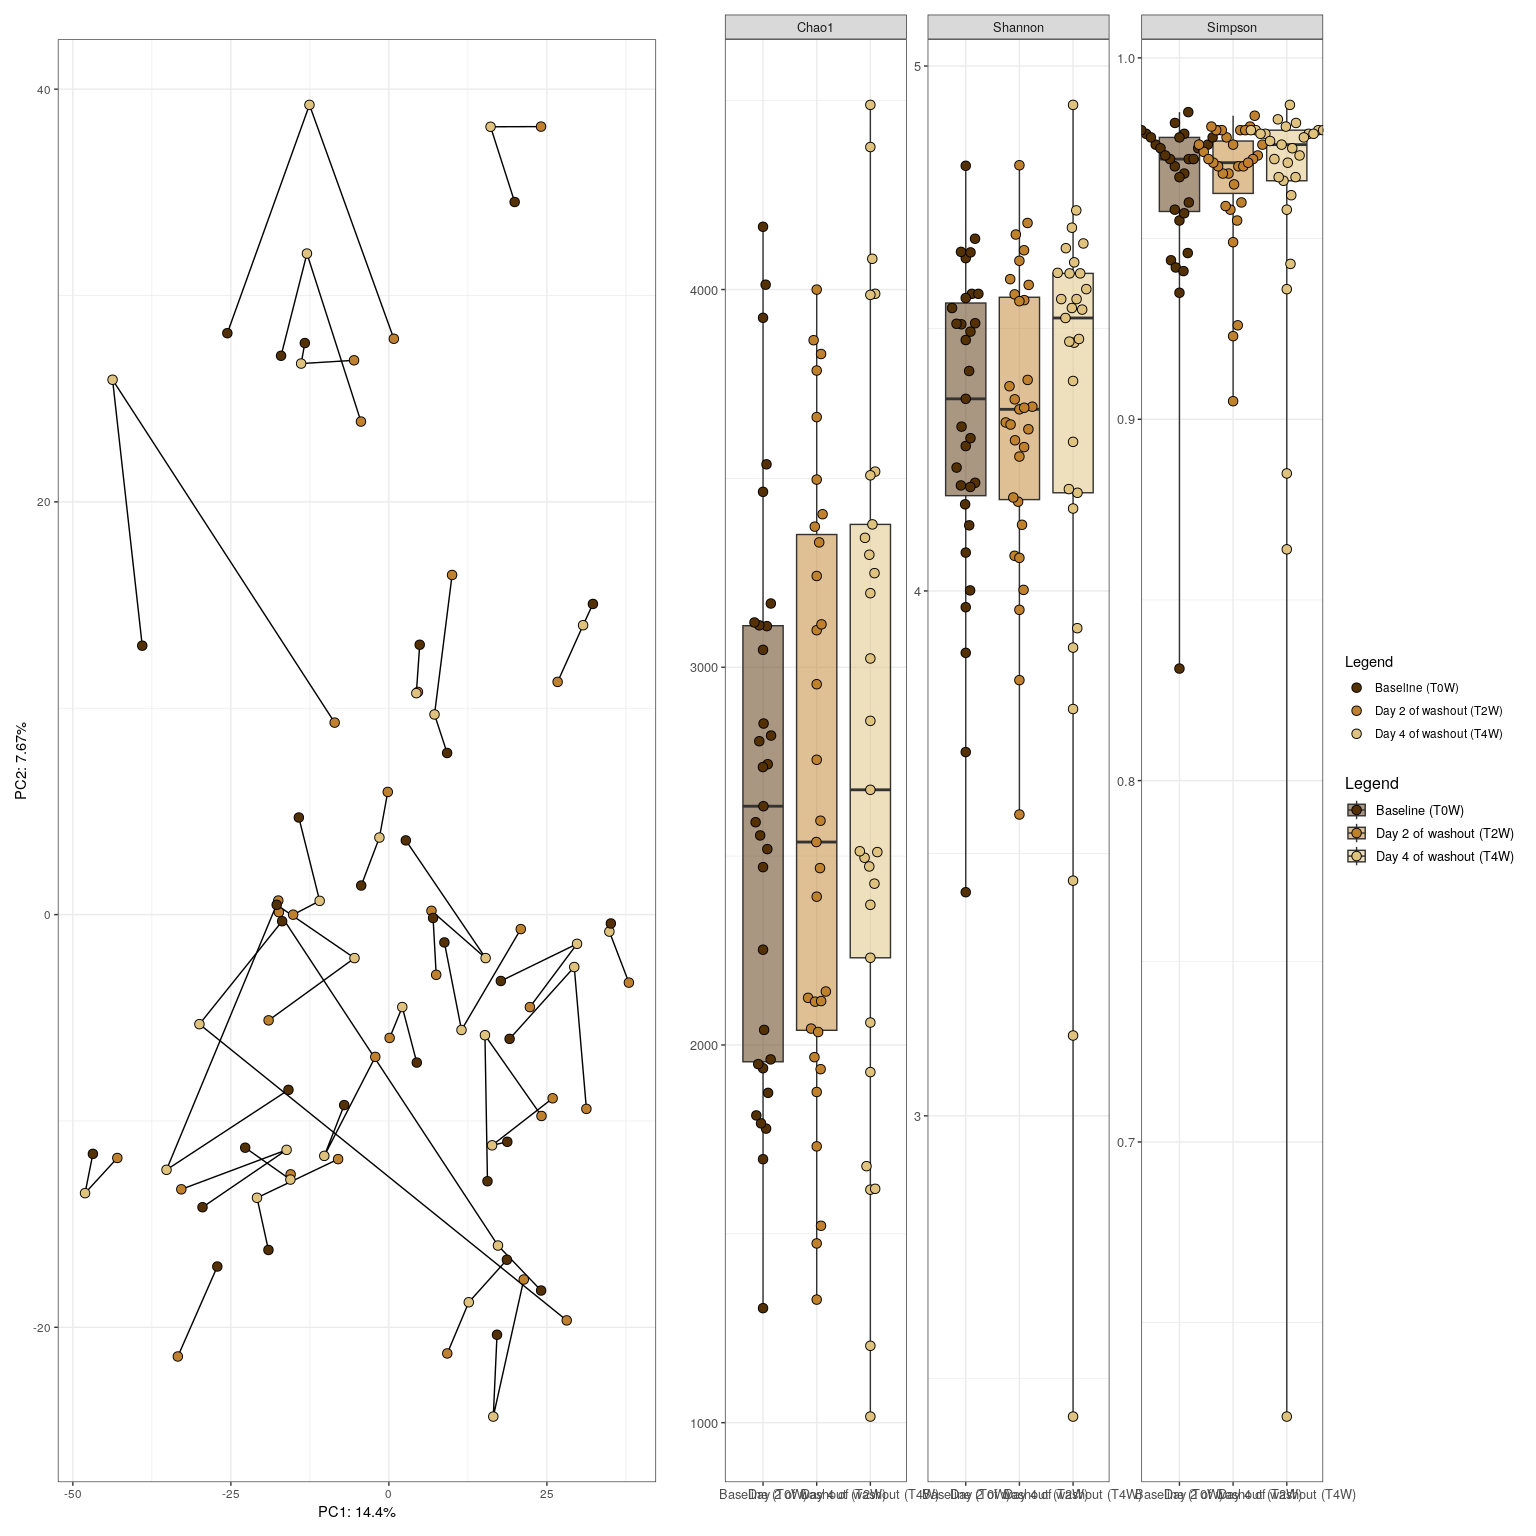
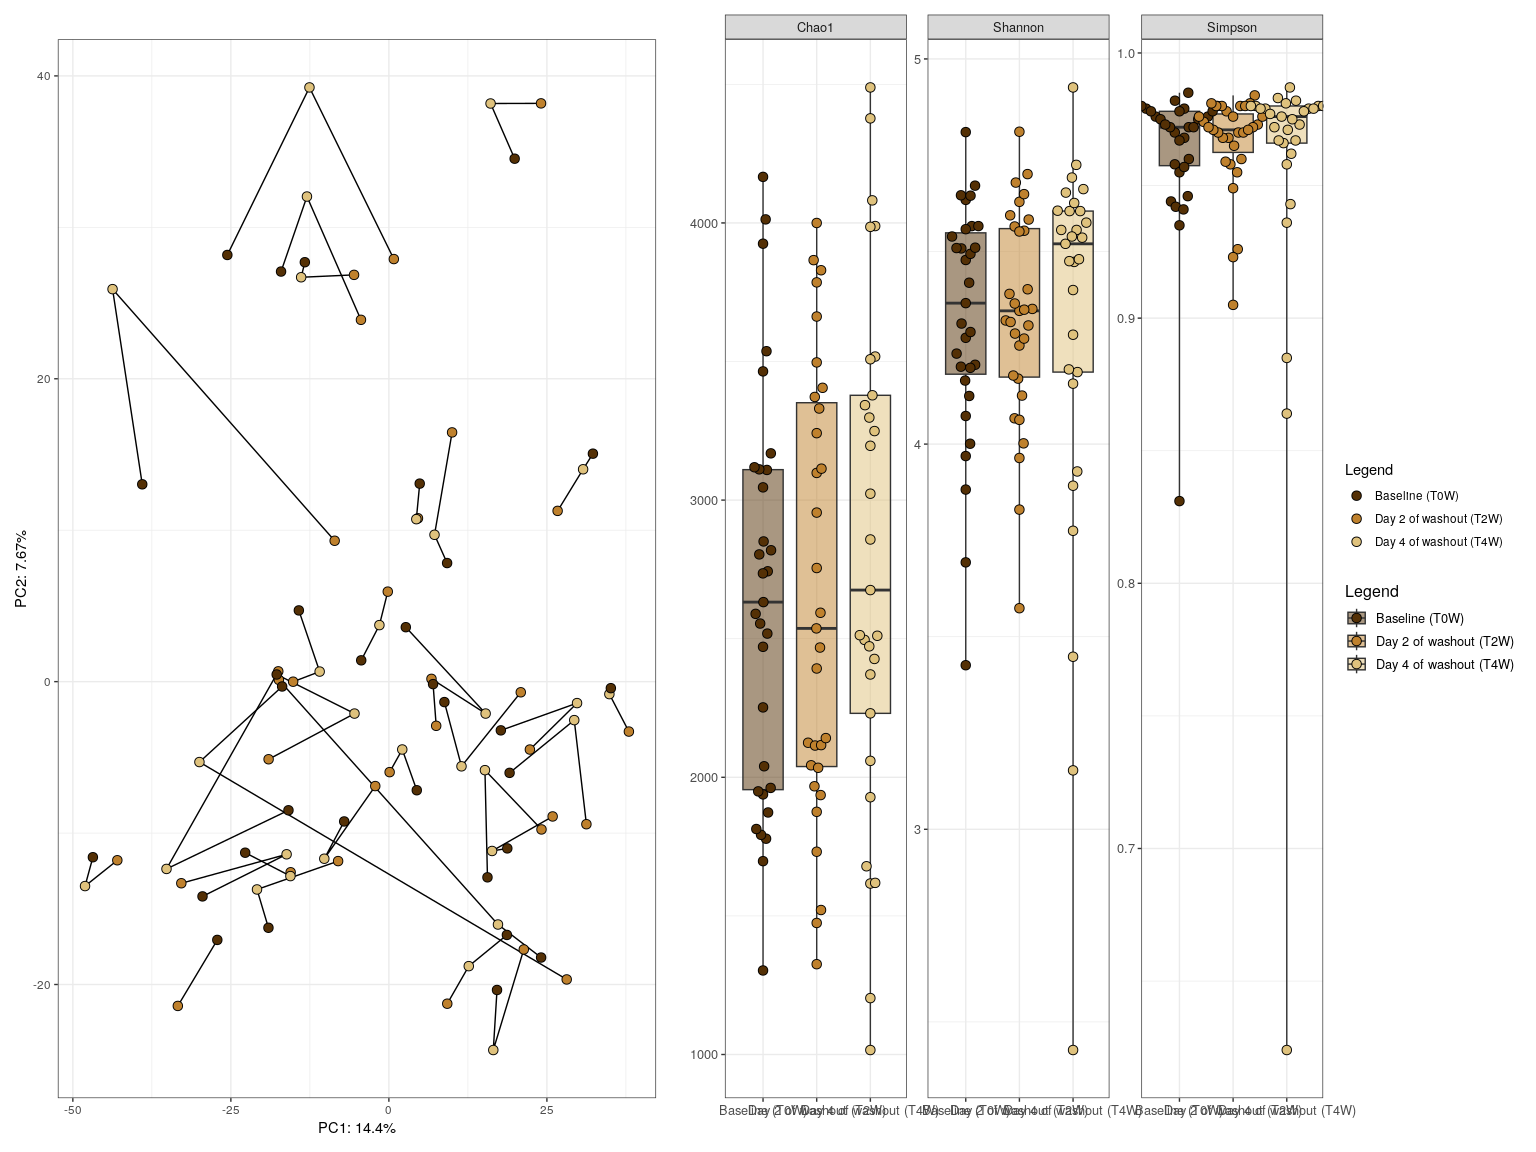
update

diff --git a/README.md b/README.md
@@ -124,7 +124,7 @@ source("scripts/ex_INTERVENTION_acute_recaf_or_decaf.R")
     ## [1] "Adjusting for FDR using Benjamini & Hochberg's procedure."
 
 ``` r
-ex_INTERVENTIONpca + ex_INTERVENTIONalpha + ex_INTERVENTIONDA_GBM + ex_INTERVENTIONDA_GMM +  plot_layout(guides = 'collect', widths = c(1,1,2,2))
+ex_INTERVENTIONpca + ex_INTERVENTIONalpha + ex_INTERVENTIONDA_GBM + ex_INTERVENTIONDA_GMM +  plot_layout(guides = 'collect', heights = c(1,1,2,2))
 ```
 
 ![](README_files/figure-gfm/unnamed-chunk-10-1.png)<!-- -->
